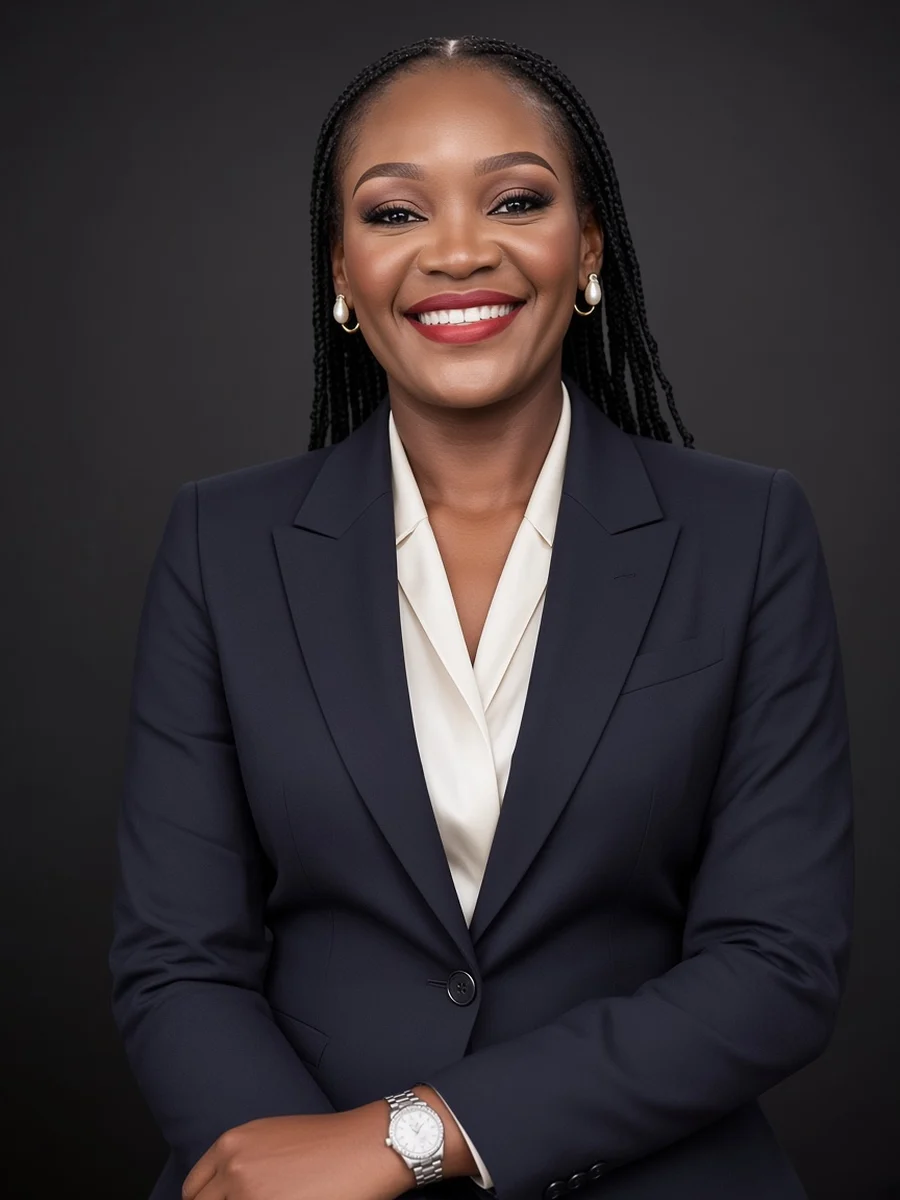
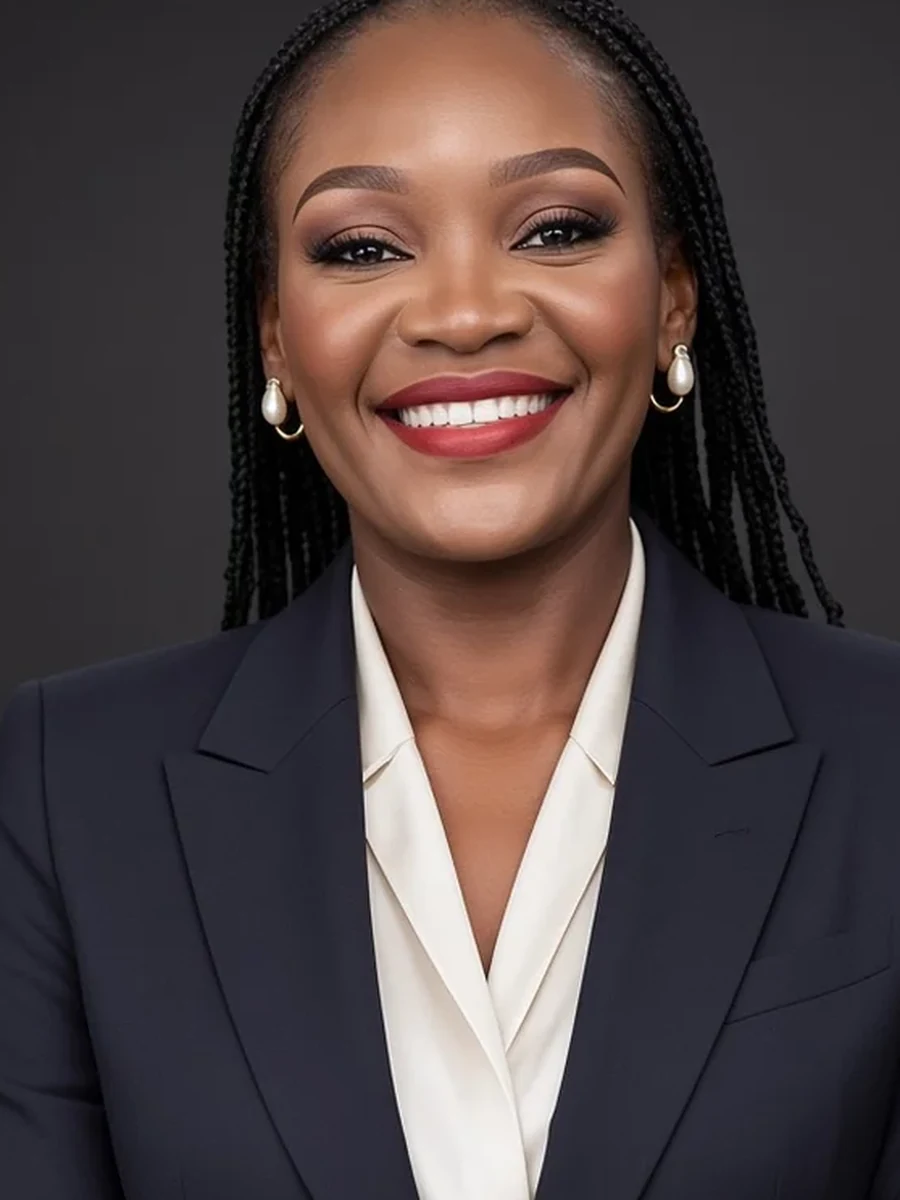
Tighten Monde’s portrait framing and fix header on anchor loads.

diff --git a/script.js b/script.js
@@ -18,11 +18,16 @@ menuButton?.addEventListener("click", () => {
 
 nav?.querySelectorAll("a").forEach((link) => link.addEventListener("click", closeMenu));
 
-window.addEventListener(
-  "scroll",
-  () => header?.classList.toggle("scrolled", window.scrollY > 16),
-  { passive: true },
-);
+const syncHeader = () => {
+  header?.classList.toggle("scrolled", window.scrollY > 50);
+};
+syncHeader();
+window.addEventListener("scroll", syncHeader, { passive: true });
+window.addEventListener("hashchange", () => {
+  // Anchor jumps may not fire a scroll event until after layout.
+  requestAnimationFrame(syncHeader);
+});
+window.addEventListener("pageshow", syncHeader);
 
 if ("IntersectionObserver" in window) {
   const observer = new IntersectionObserver(
